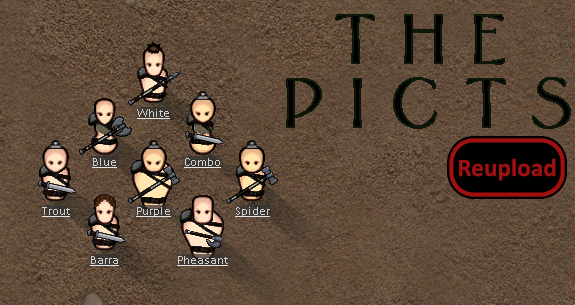
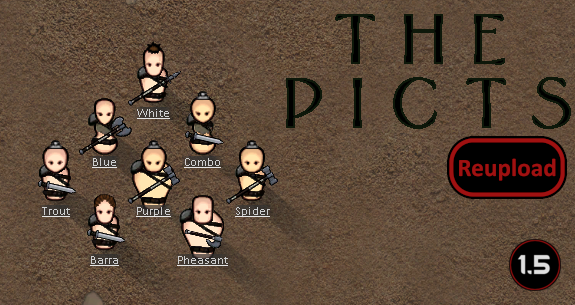
Mod updated for 1.5 and passed autotests

Changed region(s): [[0.887, 0.7672, 0.9757, 0.9738]]

diff --git a/README.md b/README.md
@@ -48,11 +48,13 @@ https://steamcommunity.com/sharedfiles/filedetails/?id=2022520108 - 1.1 update a
 
 -  See if the the error persists if you just have this mod and its requirements active.
 -  If not, try adding your other mods until it happens again.
--  Post your error-log using https://steamcommunity.com/workshop/filedetails/?id=818773962]HugsLib and command Ctrl+F12
+-  Post your error-log using https://steamcommunity.com/workshop/filedetails/?id=818773962]HugsLib or the standalone https://steamcommunity.com/sharedfiles/filedetails/?id=2873415404]Uploader and command Ctrl+F12
 -  For best support, please use the Discord-channel for error-reporting.
 -  Do not report errors by making a discussion-thread, I get no notification of that.
 -  If you have the solution for a problem, please post it to the GitHub repository.
+-  Use https://github.com/RimSort/RimSort/releases/latest]RimSort to sort your mods
 
 
 
+https://steamcommunity.com/sharedfiles/filedetails/changelog/2022520108]![Image](https://img.shields.io/github/v/release/emipa606/MEPictArmor?label=latest%20version&style=plastic&color=9f1111&labelColor=black)
 
